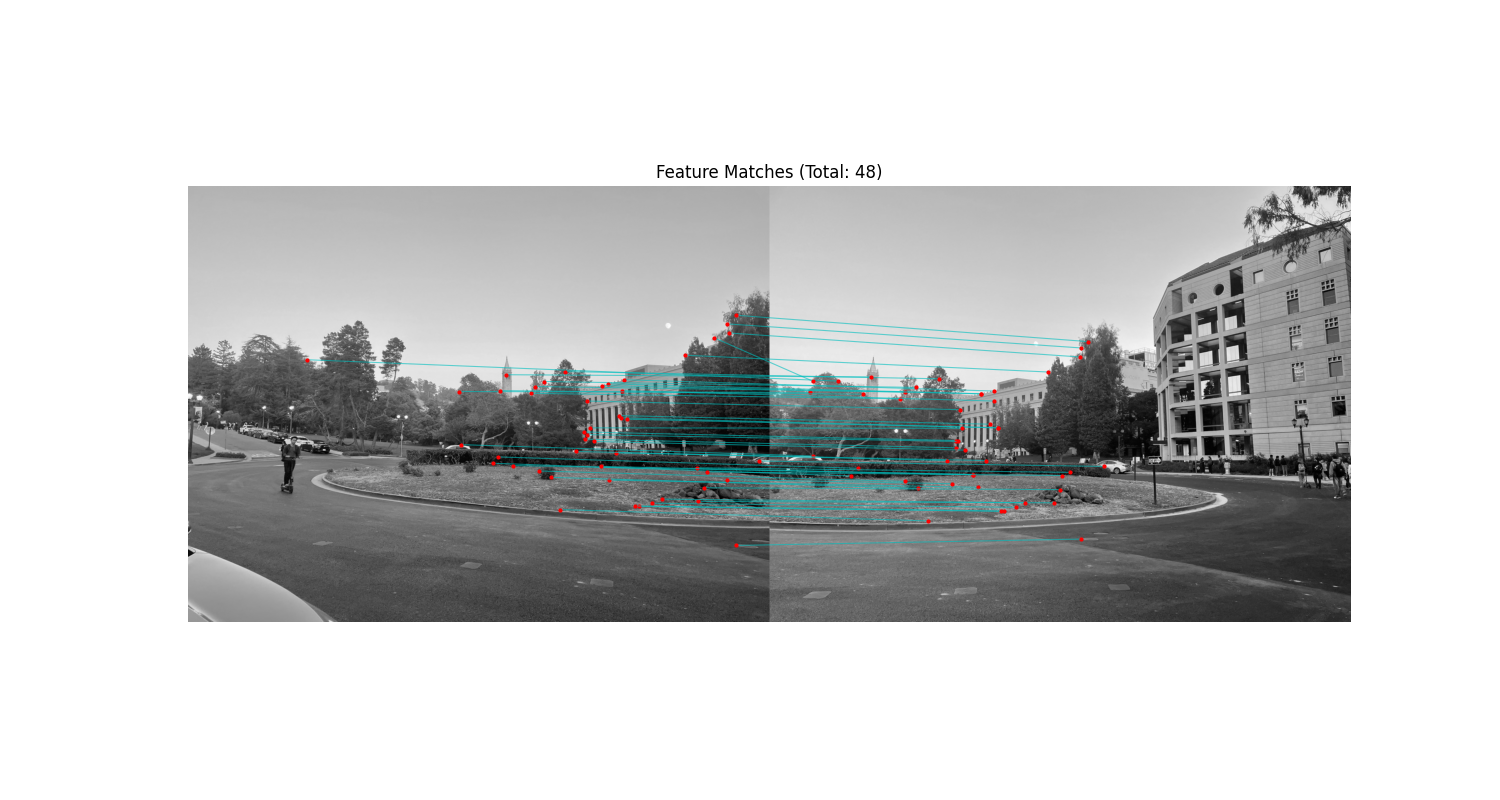
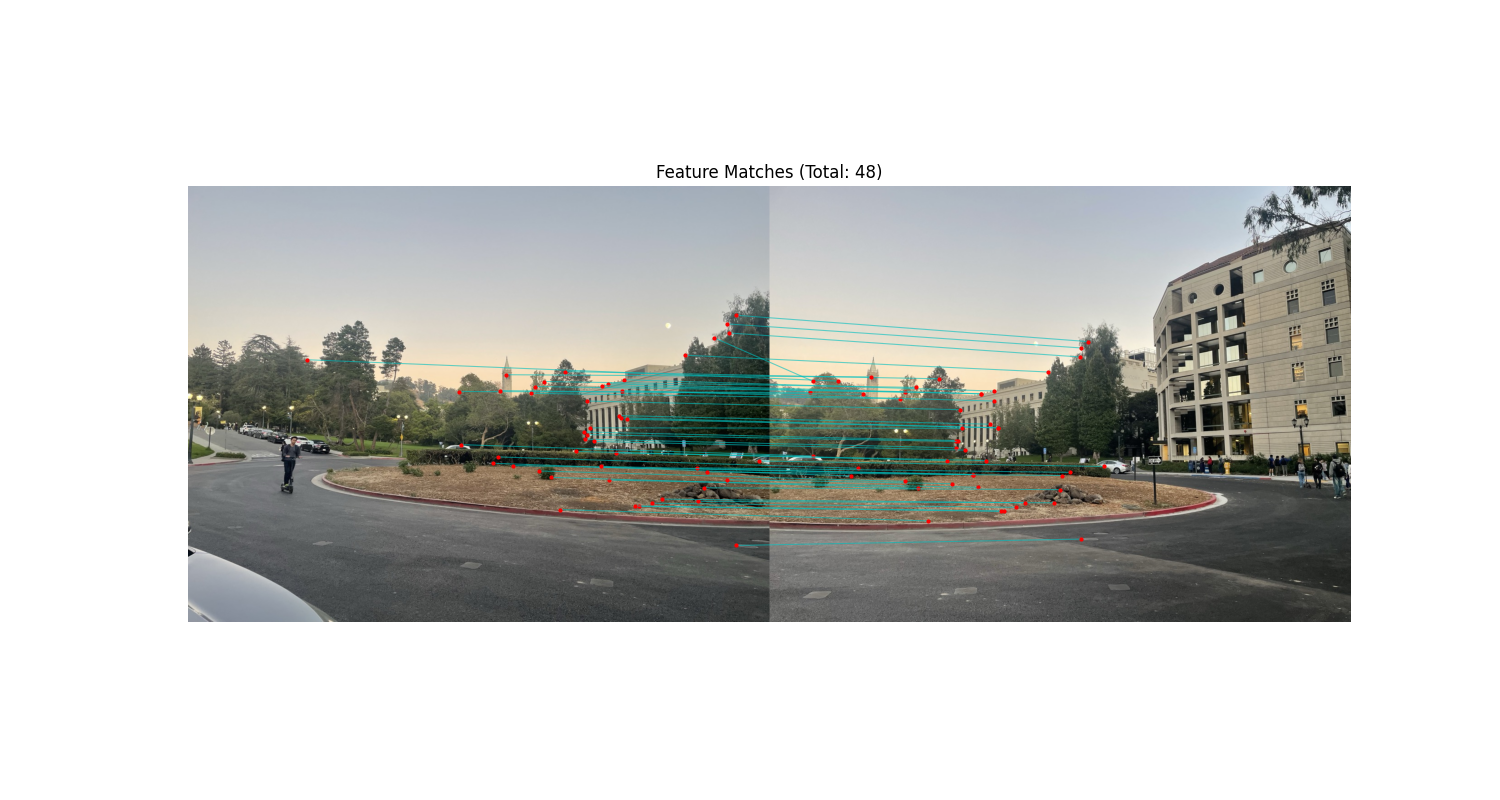
update images

diff --git a/Assignment3/3-2 Feature Matching for Autostitching/2-4 RANSAC for Robust Homography.py b/Assignment3/3-2 Feature Matching for Autostitching/2-4 RANSAC for Robust Homography.py
@@ -552,7 +552,7 @@ def ransac_homography(pts1, pts2, num_iters=2000, threshold=5.0):
     
     return H_final, max_inliers
 
-def auto_stitch(im1, im2):
+def auto_stitch(im1, im2, origin_image1, origin_image2):
     print("=== Step 1: Harris Corner Detection & ANMS ===")
     corners1 = get_harris_corners(im1)
     corners2 = get_harris_corners(im2)
@@ -581,16 +581,42 @@ def auto_stitch(im1, im2):
     print("=== Step 4: RANSAC Homography ===")
     # converting img1(dest) to img2(src)
     H_robust, inliers_idx = ransac_homography(matched_pts2, matched_pts1) # computeH(src, dest)
+
+    # Visualize RANSAC Inliers
+    plt.figure(figsize=(10, 5))
+    # left image
+    plt.subplot(1, 2, 1)
+    plt.imshow(origin_image1, cmap='gray')
+    plt.plot(valid_corners1[:, 1], valid_corners1[:, 0], 'b.', markersize=3, label='ANMS Points')
+    plt.plot(matched_pts1[:, 0], matched_pts1[:, 1], 'y+', markersize=10, label='Matched Points')
+    inlier_pts1 = matched_pts1[inliers_idx]
+    plt.plot(inlier_pts1[:, 0], inlier_pts1[:, 1], 'r*', markersize=10, label='RANSAC Inliers')
+    plt.title('Image 1 - Correspondence Points')
+    plt.legend()
+    plt.axis('off')
+    # right image
+    plt.subplot(1, 2, 2)
+    plt.imshow(origin_image2, cmap='gray')
+    plt.plot(valid_corners2[:, 1], valid_corners2[:, 0], 'b.', markersize=3, label='ANMS Points')
+    plt.plot(matched_pts2[:, 0], matched_pts2[:, 1], 'y+', markersize=10, label='Matched Points')
+    inlier_pts2 = matched_pts2[inliers_idx]
+    plt.plot(inlier_pts2[:, 0], inlier_pts2[:, 1], 'r*', markersize=10, label='RANSAC Inliers')
+    plt.title('Image 2 - Correspondence Points')
+    plt.legend()
+    plt.axis('off')
+
+    plt.tight_layout()
+    plt.show()
     
     print("=== Step 5: Warping and Blending ===")
     # 1. Use H_robust from RANSEC to warp images
-    output_shape, T = get_canvas_dimensions(im1, im2, H_robust)
+    output_shape, T = get_canvas_dimensions(origin_image1, origin_image2, H_robust)
     out_h, out_w = output_shape
     print(f"Output image shape: {out_h}x{out_w}")
     
-    warped_im1 = warpImage(im1, T, output_shape=(out_h, out_w))
+    warped_im1 = warpImage(origin_image1, T, output_shape=(out_h, out_w))
     H_final = T @ H_robust
-    warped_im2 = warpImage(im2, H_final, output_shape=(out_h, out_w))
+    warped_im2 = warpImage(origin_image2, H_final, output_shape=(out_h, out_w))
     
     # 2.Alpha Blending with Weight Masks
     mask1 = make_weight_mask(warped_im1)
@@ -612,8 +638,11 @@ def auto_stitch(im1, im2):
     return mosaic
 
 if __name__ == "__main__":
-    img1 = load_gray('../data/panorama1-left.jpeg')
-    img2 = load_gray('../data/panorama1-right.jpeg')
-    final_mosaic = auto_stitch(img1, img2)
+    img1 = iio.imread('../data/panorama1-left.jpeg')
+    img2 = iio.imread('../data/panorama1-right.jpeg')
+    gray1 = load_gray('../data/panorama1-left.jpeg')
+    gray2 = load_gray('../data/panorama1-right.jpeg')
+    final_mosaic = auto_stitch(gray1, gray2, img1, img2,)
+    iio.imwrite('../result/mosaic_result.jpg', final_mosaic)
     plt.imshow(final_mosaic, cmap='gray')
     plt.show()

diff --git a/Assignment3/3-2 Feature Matching for Autostitching/2-3 Feature Mapping.py b/Assignment3/3-2 Feature Matching for Autostitching/2-3 Feature Mapping.py
@@ -236,17 +236,17 @@ def plot_matches(img1, img2, corners1, corners2, matches):
     """
     將兩張圖並排，並畫出配對的連線
     """
-    h1, w1 = img1.shape[:2]
-    h2, w2 = img2.shape[:2]
+    h1, w1 = img1[:,...].shape[:2]
+    h2, w2 = img2[:,...].shape[:2]
     
     # 建立一個大畫布把兩張圖拼在一起
     vis_h = max(h1, h2)
     vis_w = w1 + w2
-    vis_img = np.zeros((vis_h, vis_w), dtype=img1.dtype)
+    vis_img = np.zeros((vis_h, vis_w, img1.shape[2]), dtype=img1.dtype)
     
     # 貼上圖片
-    vis_img[:h1, :w1] = img1
-    vis_img[:h2, w1:w1+w2] = img2
+    vis_img[:h1, :w1, :] = img1
+    vis_img[:h2, w1:w1+w2, :] = img2
     
     plt.figure(figsize=(15, 8))
     plt.imshow(vis_img, cmap='gray')
@@ -279,6 +279,8 @@ def plot_matches(img1, img2, corners1, corners2, matches):
 if __name__ == "__main__":
     img1 = load_gray('../data/panorama1-left.jpeg')
     img2 = load_gray('../data/panorama1-right.jpeg')
+    original_img1 = iio.imread('../data/panorama1-left.jpeg')
+    original_img2 = iio.imread('../data/panorama1-right.jpeg')
     corners1 = get_harris_corners(img1)
     corners2 = get_harris_corners(img2)
     local_maxima1 = get_local_maxima(corners1, min_distance=1, threshold=0.001)
@@ -296,7 +298,7 @@ if __name__ == "__main__":
         print(f"找到 {len(matches)} 組配對。")
         
         # 顯示結果
-        plot_matches(img1, img2, valid_corners1, valid_corners2, matches)
+        plot_matches(original_img1, original_img2, valid_corners1, valid_corners2, matches)
     else:
         print("請先執行 B.2 取得 descriptors 和 corners。")
 

diff --git a/Assignment3/3-1 Image Mosaic/1-4 Blend the Images into a Mosaic.py b/Assignment3/3-1 Image Mosaic/1-4 Blend the Images into a Mosaic.py
@@ -359,9 +359,7 @@ if __name__ == "__main__":
         plt.axis('off')
         plt.tight_layout()
         plt.show()
-        
-        # 若想把包含 alpha mask 的圖一起存起來，也可以在這裡額外做 plt.savefig(...)
-        
+                
         # 保留原本純 mosaic 的存檔（不含點）
         iio.imwrite('mosaic_result.jpg', result)
         print("全景圖已儲存！")
